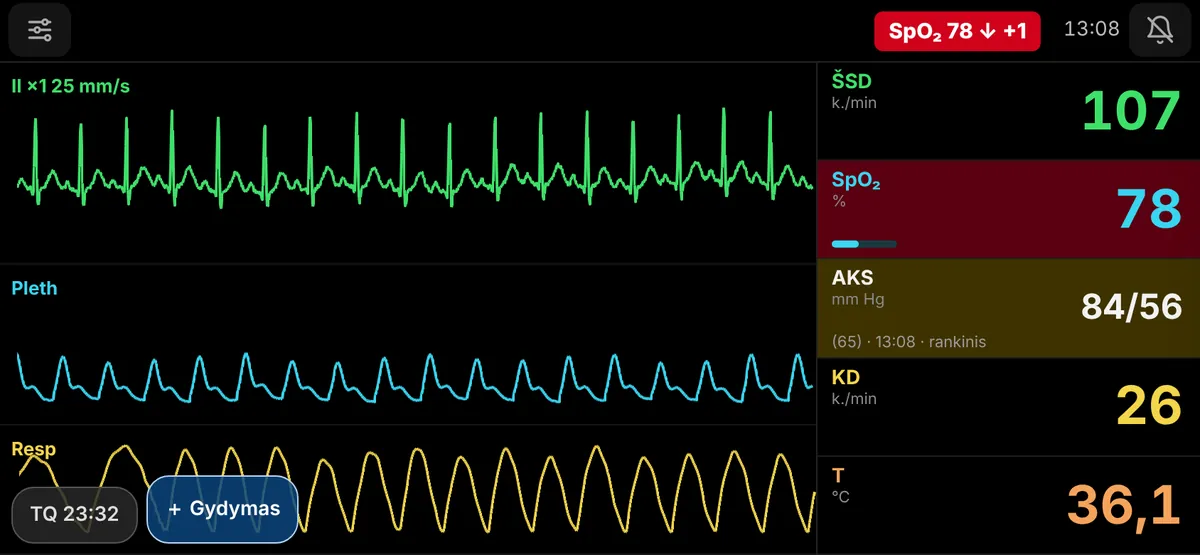
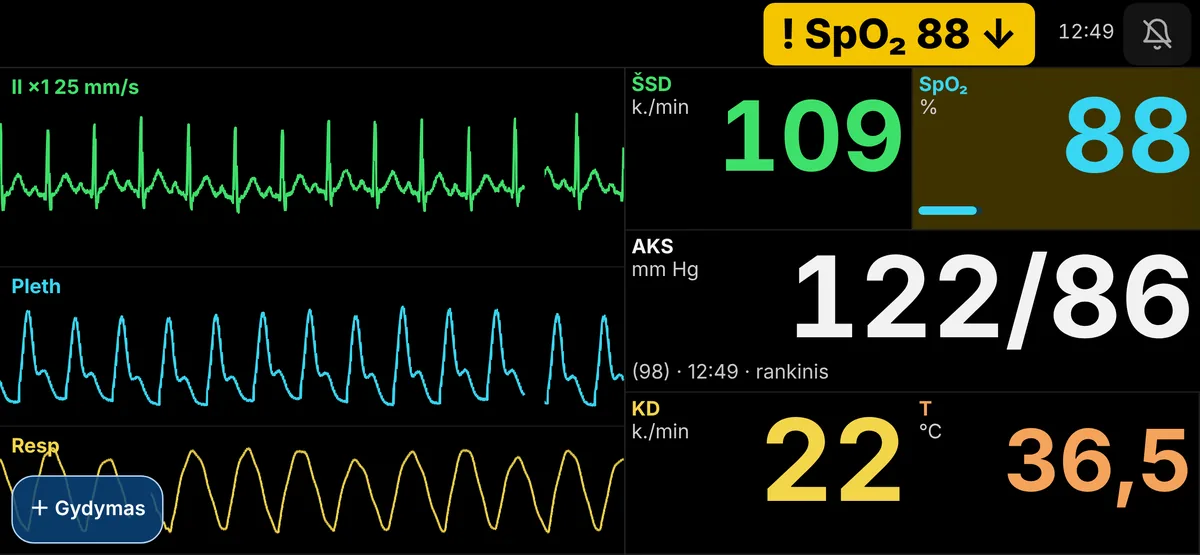
Svetainė: SIM v11.8 ekrano vaizdai (telefonas, monitorius, pultas kompiuteryje), aprašas – veikimas telefone, planšetėje ir kompiuteryje
Claude-Session: https://claude.ai/code/session_01GRahmNxGXdwniaZgsnJMnK

diff --git a/index.html b/index.html
@@ -75,6 +75,7 @@ h1,h2,h3{font-family:'Barlow Condensed',Barlow,sans-serif;font-weight:700;line-h
 .mon{margin:28px 0 0}
 .mon img{width:100%;height:auto;aspect-ratio:1200/555;border-radius:18px;border:1px solid var(--line);background:#000}
 .mon figcaption{font-size:14px;color:var(--tx2);margin-top:8px}
+.mon img.w169{aspect-ratio:16/9}
 @media (max-width:860px){.app .hd{grid-template-columns:1fr;gap:28px}.shots figure{width:62%}}
 
 /* įdiegimas */
@@ -154,8 +155,9 @@ footer .wrap{display:flex;flex-wrap:wrap;gap:8px 24px;justify-content:space-betw
         <li>Scenarijai MEDEVAC ir Role 1, perdavimas iš vieno į kitą</li>
         <li>Sužalojimai ir pagalba iki atvykimo – pagal CLS ir CMC ribas</li>
         <li>Instruktoriaus įvykiai: atsilaisvinęs turniketas, nukritęs elektrodas, širdies sustojimas</li>
+        <li>Veikia telefone, planšetėje ir kompiuteryje – didesniame ekrane pultas rodomas dviem stulpeliais</li>
       </ul>
-      <details class="more"><summary>Plačiau: kam skirta ir ką galima nuveikti <svg viewBox="0 0 24 24" fill="none" stroke="currentColor" stroke-width="2.4" stroke-linecap="round" stroke-linejoin="round" aria-hidden="true"><path d="M6 9l6 6 6-6"/></svg></summary><div class="mbody"><h3>Kam skirta</h3><p>Instruktoriams ir mokymų grupėms: šaulių gelbėtojų (CLS), kovos medikų (CMC) ir Role 1 komandų treniruotėms. Vietoje brangaus paciento monitoriaus – keli telefonai, planšetė ar kompiuteris su projektoriumi.</p><h3>Ką galima nuveikti</h3><ul><li><b>Monitorius</b> – EKG, pletizmograma, kvėpavimo kreivė, ŠSD, SpO₂, AKS (neinvazinis matavimas paspaudus) ir aliarmai su garsu. Kreivės turi natūralų „triukšmą“, todėl atrodo kaip tikros.</li><li><b>Instruktoriaus pultas</b> kitame telefone – prisijungiama nuskenavus monitoriuje rodomą QR kodą arba įvedus kodą, viskas valdoma per atstumą.</li><li><b>Scenarijaus vedlys</b>: lytis, amžius, svoris, keli sužalojimai iškart, laikas nuo traumos ir kas jau atlikta iki atvykimo – pagal CLS ir CMC kompetencijos ribas.</li><li><b>Procedūros pagal traumas</b>: kraujavimo stabdymas, kvėpavimo takai (iki krikotiroidotomijos), pneumotoraksas, hipotermija; vaistai, skysčiai ir kraujas. Paciento būklė keičiasi pagal tai, ką komanda daro – ir ko nepadaro.</li><li><b>Instruktoriaus įvykiai</b>: atsilaisvinęs turniketas, nukritęs elektrodas, širdies sustojimas ir kt. Monitoriuje jie nerodomi – komanda turi pastebėti pokytį pati.</li><li><b>MEDEVAC ir Role 1</b> scenarijai, sužeistojo perdavimas iš vienos grandies kitai.</li></ul><h3>Kaip skaičiuojama</h3><p>Su internetu rodiklius skaičiuoja Pulse Physiology Engine mūsų serveryje: simuliacija prasideda iš karto, o tikslesnė eiga perskaičiuojama fone. Be interneto veikia supaprastintas modelis pačiame telefone, o nutrūkus ryšiui su serveriu tą patį scenarijų galima tęsti telefono modeliu. Nieko nustatyti nereikia.</p><h3>Svarbu</h3><p>SIM – mokymo priemonė, ne medicinos prietaisas.</p></div></details>
+      <details class="more"><summary>Plačiau: kam skirta ir ką galima nuveikti <svg viewBox="0 0 24 24" fill="none" stroke="currentColor" stroke-width="2.4" stroke-linecap="round" stroke-linejoin="round" aria-hidden="true"><path d="M6 9l6 6 6-6"/></svg></summary><div class="mbody"><h3>Kam skirta</h3><p>Instruktoriams ir mokymų grupėms: šaulių gelbėtojų (CLS), kovos medikų (CMC) ir Role 1 komandų treniruotėms. Vietoje brangaus paciento monitoriaus – keli telefonai, planšetė ar kompiuteris su projektoriumi.</p><h3>Ką galima nuveikti</h3><ul><li><b>Monitorius</b> – EKG, pletizmograma, kvėpavimo kreivė, ŠSD, SpO₂, AKS (neinvazinis matavimas paspaudus) ir aliarmai su garsu. Kreivės turi natūralų „triukšmą“, todėl atrodo kaip tikros. Telefone skaičiai dideli, kad būtų matomi iš toliau. Komanda savo veiksmus (procedūras, deguonį, vaistus ir skysčius) gali pažymėti pačiame monitoriuje – mygtuku „＋ Gydymas“.</li><li><b>Instruktoriaus pultas</b> kitame telefone – prisijungiama nuskenavus monitoriuje rodomą QR kodą arba įvedus kodą, viskas valdoma per atstumą. Planšetėje ar kompiuteryje būklė ir veiksmai rodomi šalia vienas kito; vaistas skiriamas dviem paspaudimais, klaidingą įrašą galima atšaukti.</li><li><b>Scenarijaus vedlys</b>: lytis, amžius, svoris, keli sužalojimai iškart, laikas nuo traumos ir kas jau atlikta iki atvykimo – pagal CLS ir CMC kompetencijos ribas.</li><li><b>Procedūros pagal traumas</b>: kraujavimo stabdymas, kvėpavimo takai (iki krikotiroidotomijos), pneumotoraksas, hipotermija; vaistai, skysčiai ir kraujas. Paciento būklė keičiasi pagal tai, ką komanda daro – ir ko nepadaro.</li><li><b>Instruktoriaus įvykiai</b>: atsilaisvinęs turniketas, nukritęs elektrodas, širdies sustojimas ir kt. Monitoriuje jie nerodomi – komanda turi pastebėti pokytį pati.</li><li><b>MEDEVAC ir Role 1</b> scenarijai, sužeistojo perdavimas iš vienos grandies kitai.</li></ul><h3>Kaip skaičiuojama</h3><p>Su internetu rodiklius skaičiuoja Pulse Physiology Engine mūsų serveryje: simuliacija prasideda iš karto, o tikslesnė eiga perskaičiuojama fone. Be interneto veikia supaprastintas modelis pačiame telefone, o nutrūkus ryšiui su serveriu tą patį scenarijų galima tęsti telefono modeliu. Nieko nustatyti nereikia.</p><h3>Svarbu</h3><p>SIM – mokymo priemonė, ne medicinos prietaisas.</p></div></details>
       <a class="open" href="https://sim.1040medkuopa.lt">Atidaryti SIM <svg viewBox="0 0 24 24" fill="none" stroke="currentColor" stroke-width="2.4" stroke-linecap="round" stroke-linejoin="round" aria-hidden="true"><path d="M7 17 17 7M9 7h8v8"/></svg></a>
       <span class="dom">sim.1040medkuopa.lt</span>
     </div>
@@ -166,7 +168,8 @@ footer .wrap{display:flex;flex-wrap:wrap;gap:8px 24px;justify-content:space-betw
     </div>
   </div>
   <div class="wrap">
-    <figure class="mon"><img src="img/sim-mon.webp" alt="Monitoriaus vaizdas: EKG, pletizmograma, kvėpavimas, ŠSD 107, SpO₂ 78, AKS 84/56" loading="lazy" width="1200" height="555"><figcaption>Monitorius gulsčiame telefone: sužeistasis su turniketu ir atviru pneumotoraksu</figcaption></figure>
+    <figure class="mon"><img src="img/sim-mon.webp" alt="Monitoriaus vaizdas: EKG, pletizmograma, kvėpavimas, ŠSD 109, SpO₂ 88, AKS 122/86, aliarmas SpO₂" loading="lazy" width="1200" height="555"><figcaption>Monitorius gulsčiame telefone: kraujavimas iš šlaunies ir įtampos pneumotoraksas, pagalba dar nesuteikta</figcaption></figure>
+    <figure class="mon"><img class="w169" src="img/sim-pultas.webp" alt="Instruktoriaus pultas kompiuterio ekrane: kairėje būklė ir ką daryti, dešinėje procedūros" loading="lazy" width="1200" height="675"><figcaption>Pultas planšetėje ar kompiuteryje: būklė ir veiksmai šalia vienas kito</figcaption></figure>
   </div>
 </section>
 
